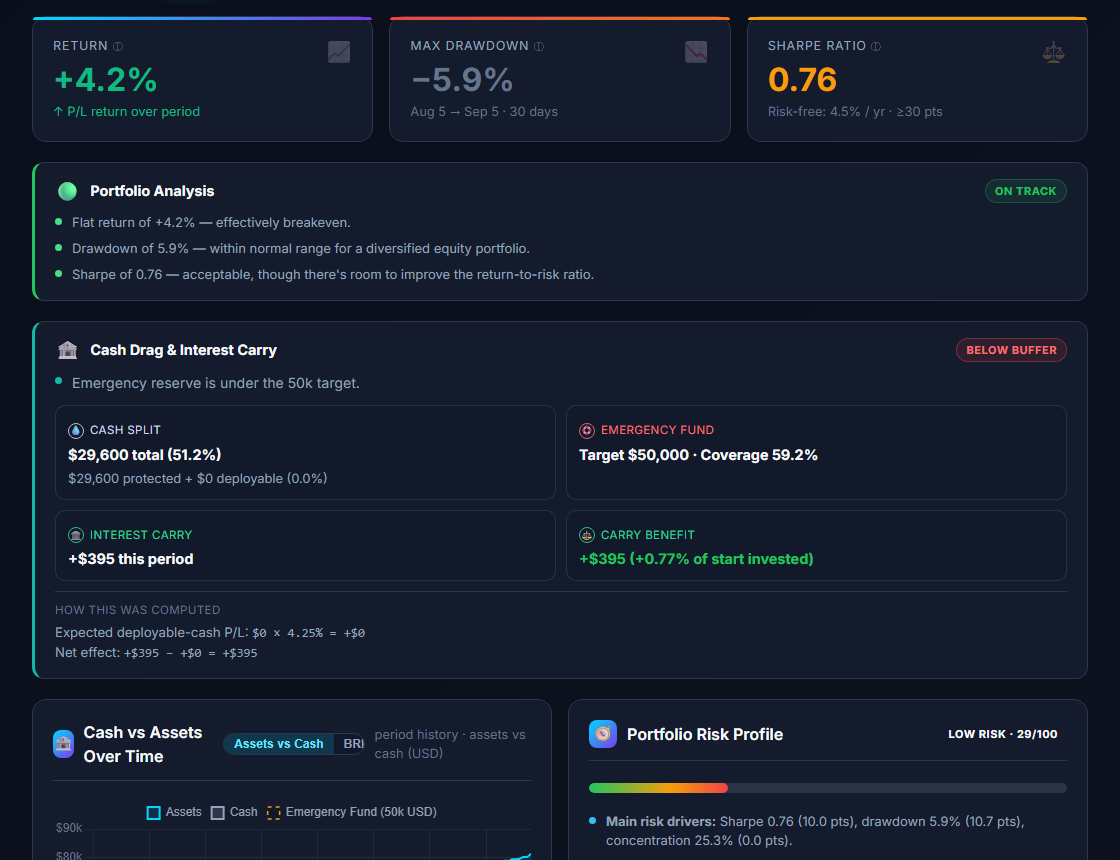
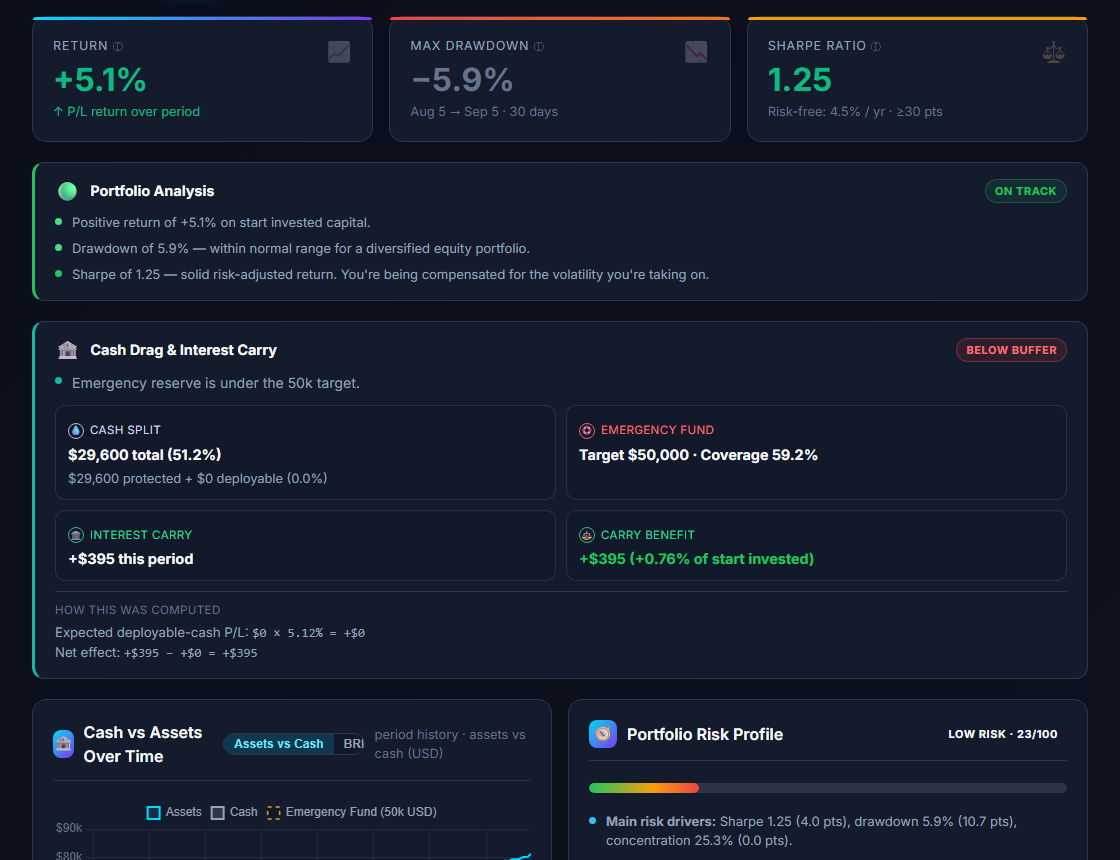
refactor: fold the view tabs into the header and move alerts to the bottom

diff --git a/apps/web/src/views/DashboardView.vue b/apps/web/src/views/DashboardView.vue
@@ -41,8 +41,23 @@ onBeforeUnmount(() => {
 </script>
 
 <template>
+  <!--
+    One header row: the two views, then the settings gear last on the right.
+    The tabs used to be a second row of their own below the header, which put the
+    view switcher below the fold on a laptop and left the gear stranded on its
+    own. `Overview` was also a redundant tab - the page is the overview, so
+    selecting it was the same as doing nothing, and it read as a third view.
+  -->
   <PageHeader icon="₿" title="Portfolio Dashboard" subtitle="Holdings, cash, trades and alerts in one view">
     <template #actions>
+      <div class="view-tabs">
+        <button class="view-tab" :class="{ 'is-active': store.tab === 'dashboard' }" @click="store.setTab('dashboard')">
+          Dashboard
+        </button>
+        <button class="view-tab" :class="{ 'is-active': store.tab === 'assetCharts' }" @click="store.setTab('assetCharts')">
+          Asset Charts
+        </button>
+      </div>
       <button
         class="btn"
         title="Settings & Tools"
@@ -54,20 +69,9 @@ onBeforeUnmount(() => {
     </template>
   </PageHeader>
 
-  <div class="view-tabs">
-    <button class="view-tab" :class="{ 'is-active': store.tab === 'dashboard' }" @click="store.setTab('dashboard')">
-      Overview
-    </button>
-    <button class="view-tab" :class="{ 'is-active': store.tab === 'assetCharts' }" @click="store.setTab('assetCharts')">
-      Asset Charts
-    </button>
-  </div>
-
   <template v-if="store.tab === 'dashboard'">
     <div v-if="store.staleWarning" class="banner-warning">⚠ {{ store.staleWarning }}</div>
     <div v-if="store.priceError" class="banner-error">🚫 {{ store.priceError }}</div>
-
-    <AlertsPanel />
 
     <MetricCards />
 
@@ -164,6 +168,14 @@ onBeforeUnmount(() => {
       </div>
       <TradeHistoryTable />
     </div>
+
+    <!--
+      Alerts last. It used to sit above the metric cards, where it pushed the
+      numbers a visitor came for below the fold and made a configuration panel
+      look like the most important thing on the page. The alert form and the
+      triggered list belong after the portfolio they are watching.
+    -->
+    <AlertsPanel />
   </template>
 
   <div v-show="store.tab === 'assetCharts'" class="card">

diff --git a/static/css/layout.css b/static/css/layout.css
@@ -100,11 +100,13 @@ h2 {
   flex-wrap: wrap;
 }
 
+/* Inside `.page-actions` since the tabs moved into the header, so the
+   `margin-bottom: 20px` that spaced them as their own row is now just spacing
+   between the switcher and the gear. */
 .view-tabs {
   display: flex;
   gap: 8px;
   max-width: 100%;
-  margin-bottom: 20px;
 }
 .view-tab {
   padding: 8px 14px;
@@ -133,12 +135,18 @@ h2 {
   body {
     padding: 16px;
   }
+  /* `.view-tabs` keeps `overflow-x: auto` here, but no longer gets
+     `padding-bottom: 4px` - that was for the hidden scrollbar it used to show
+     when it was a full-width row of its own, and it now reads as a stray gap
+     between the tabs and the gear. */
   .app-nav,
   .view-tabs {
     overflow-x: auto;
     flex-wrap: nowrap;
     scrollbar-width: none;
     -webkit-overflow-scrolling: touch;
+  }
+  .app-nav {
     padding-bottom: 4px;
   }
   .app-nav::-webkit-scrollbar,
